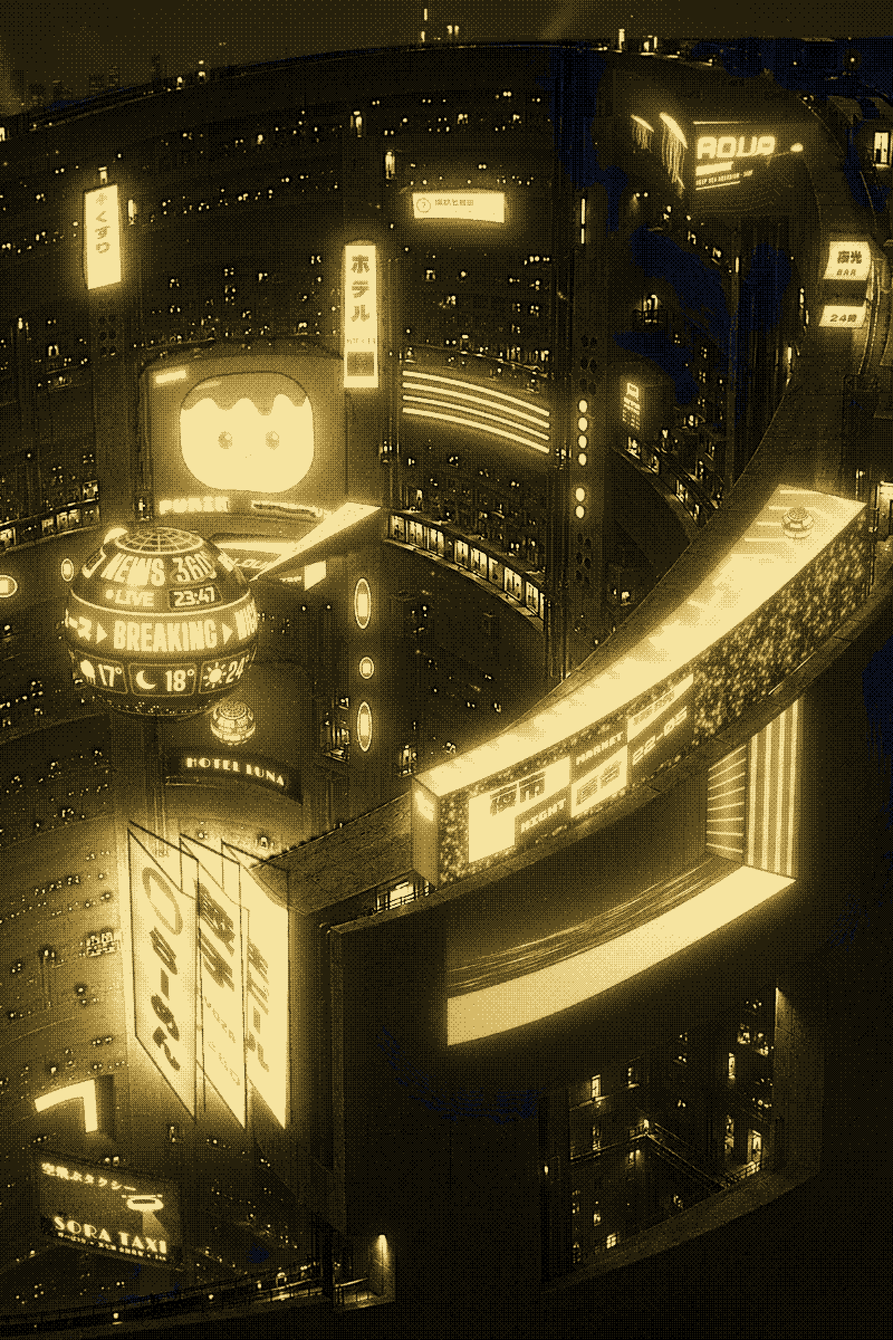
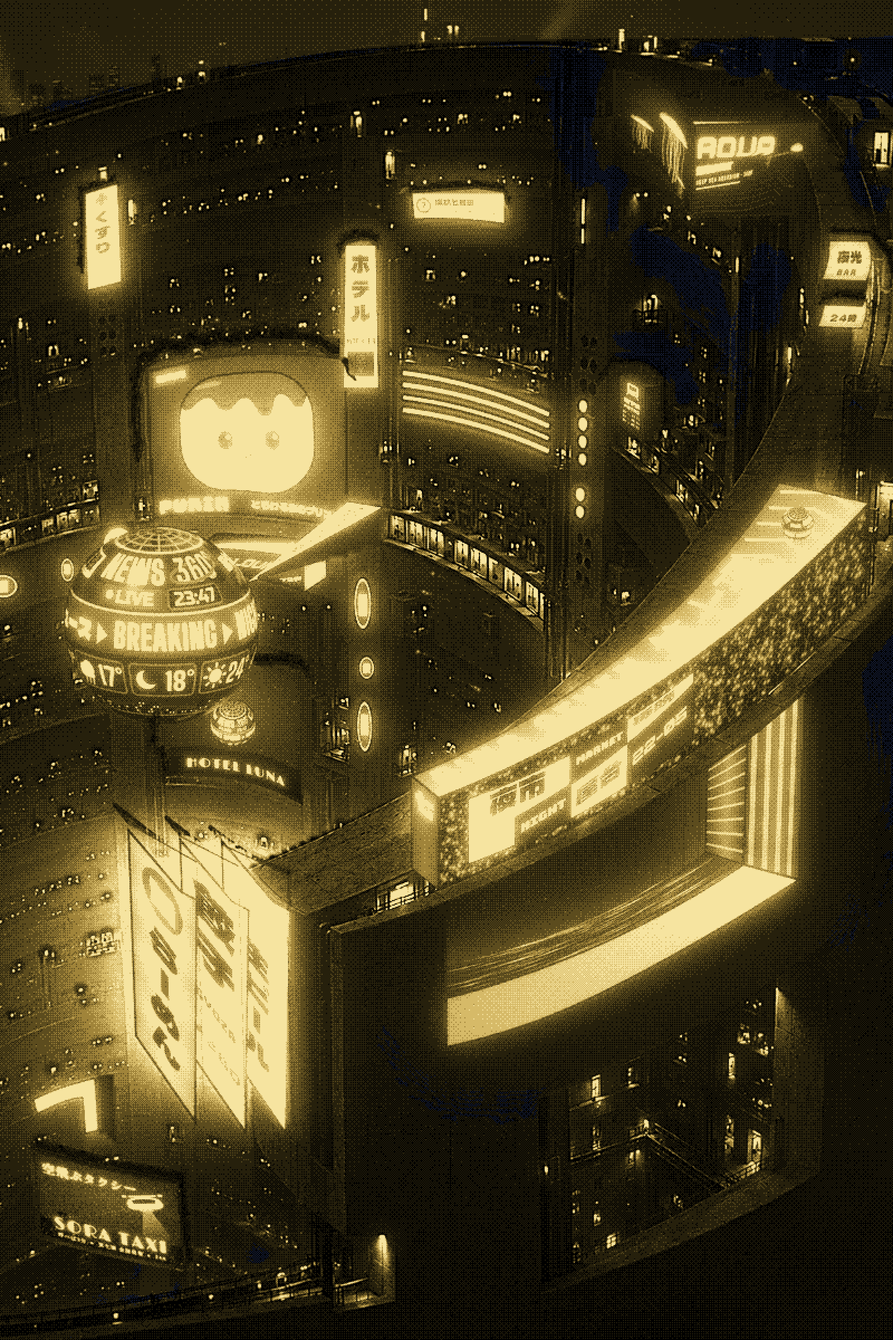
Building 2: real support structure behind the light panels
The uniform shifted band of the previous pass did not follow the
perspective and read as an outline, not as a body. Each wall screen is
now a thin LED cabinet on a steel sub-frame, held off the wall on
outrigger brackets with wall plates bolted to wall rails; side posts get
diagonal ties and screens over 5 m a lattice between the brackets. The
izakaya blades hang on a cantilever arm along the top edge with a tie
rod, the ones in front hiding the structure of the ones behind.

Members are sized in metres (standoff, section and bracket spacing scale
with the panel) and projected with the mounting normal at that point of
the ring at the local px-per-metre scale, so the depth direction turns
around the ring. Structure is only drawn past the edges that face the
wall footprint and on the wall side of the panel; the wall behind those
edges falls into the panel's shadow with a soft contact shadow beyond,
and the steel is lit by the local glow of the scene. Sign faces, lit
elements and the NEWS 360 ball stay in front of any structure. The
PURIN mask now includes its cream lettering so no truss grows across the
face. The SORA TAXI billboard gets the same frame.

All three variants, the preview and process sheet 08 are regenerated.

Claude-Session: https://claude.ai/code/session_01NVD3LLDDZSnfcYFD5YBpb3

diff --git a/pipeline/building_2/scripts/b2_post.py b/pipeline/building_2/scripts/b2_post.py
@@ -1,13 +1,17 @@
 #!/usr/bin/env python3
-"""Post pass on the finished building-2 frames (2400x3600): body for the flat light panels + the SORA TAXI billboard.
+"""Post pass on the finished building-2 frames (2400x3600): support structure for the flat light panels + the SORA
+TAXI billboard.
 
 The flat lightboxes and LED screens (くすり, 環状七号線, ホテル MIDORI, PURIN, HOTEL LUNA, the three izakaya blades, the
-METRO kiosk, the 夜光 BAR boxes) are given a real body: dark metal returns on the sides that face the camera (the top,
-and the side that faces away from the far point of the ring), a lit bezel line where the face meets the return, and a
-contact shadow on the wall around the mounting footprint. A new wall billboard in the HOTEL LUNA family (SORA TAXI,
-flying taxi) is added on the lower-left wall with the same LED material, metal frame, returns and contact shadow, its
-light spilled and bloomed onto the wall, then the lens falloff and the film treatment of the frame it sits in
-(halation, shoulder/toe, grade, scan sharpening, grain).
+METRO kiosk, the 夜光 BAR boxes) were drawn as decals and read as floating. Each wall screen becomes a thin LED cabinet
+on a steel sub-frame, held off the wall on outrigger brackets with wall plates that bolt to wall rails; side posts get
+diagonal ties and big screens a lattice between the brackets. The blades are thin sheets hung on cantilever arms with
+a tie rod. Members are sized in metres and projected with the mounting normal of that point of the ring (so the depth
+direction turns around the ring) at the local px-per-metre scale; the wall behind the panel's edge falls into its
+shadow, with a soft contact shadow beyond. A new wall billboard in the HOTEL LUNA family (SORA TAXI, flying taxi) is
+added on the lower-left wall with the same LED material, metal frame and structure, its light spilled and bloomed
+onto the wall, then the lens falloff and the film treatment of the frame it sits in (halation, shoulder/toe, grade,
+scan sharpening, grain).
 
 It works on the finished frames because the `.ai` assets of the pipeline are not in the repository: the panel outlines
 are segmented from the Portra frame (all variants share the same geometry), the cinematic and Portra frames are edited
@@ -63,30 +67,30 @@ def shift_vec(nx, nz, t):
     return t * nx, t * nz * SY
 
 # ----------------------------------------------------------------------------------------------- panel geometry
-# bbox, hue range (deg) or None, min sat, min val, parts, thickness px, frame dilation px, outline tolerance px
+# bbox, hue range (deg) or None, min sat, min val, parts, scale (px per metre), frame dilation px, outline tolerance px
 PANELS = {
-    'kusuri':    dict(bbox=(215, 480, 345, 800), hue=None, smin=0.0, vmin=0.45, n=1, t=10, grow=4, eps=5),
-    'ringline7': dict(bbox=(1085, 500, 1380, 630), hue=None, smin=0.0, vmin=0.45, n=1, t=10, grow=4, eps=5),
-    'midori':    dict(bbox=(915, 640, 1030, 1055), hue=None, smin=0.0, vmin=0.40, n=1, t=10, grow=4, eps=5),
-    'purin':     dict(bbox=(370, 900, 955, 1425), hue=(265, 335), smin=0.35, vmin=0.22, n=1, t=18, grow=4, eps=2.5,
-                      hull=False, smooth=7),
-    'luna':      dict(bbox=(425, 1790, 835, 2190), hue=(210, 258), smin=0.40, vmin=0.18, n=1, t=16, grow=4, eps=2.5,
+    'kusuri':    dict(bbox=(215, 480, 345, 800), hue=None, smin=0.0, vmin=0.45, n=1, scale=46, grow=4, eps=5),
+    'ringline7': dict(bbox=(1085, 500, 1380, 630), hue=None, smin=0.0, vmin=0.45, n=1, scale=46, grow=4, eps=5),
+    'midori':    dict(bbox=(915, 640, 1030, 1055), hue=None, smin=0.0, vmin=0.40, n=1, scale=46, grow=4, eps=5),
+    'purin':     dict(bbox=(370, 900, 955, 1405), hue=(265, 335), smin=0.35, vmin=0.22, n=1, scale=44, grow=4, eps=2.5,
+                      hull=False, smooth=7, bright=0.55, close=15),       # the cream lettering on its bottom edge joins the mask
+    'luna':      dict(bbox=(425, 1790, 835, 2190), hue=(210, 258), smin=0.40, vmin=0.18, n=1, scale=48, grow=4, eps=2.5,
                       hull=False, smooth=5, hidden_corner=(432, 1815)),
-    'kiosk':     dict(bbox=(1610, 980, 1780, 1200), hue=(210, 258), smin=0.35, vmin=0.18, n=1, t=9, grow=3, eps=5),
-    'bars':      dict(bbox=(2175, 600, 2400, 1000), hue=(265, 330), smin=0.22, vmin=0.30, n=2, t=9, grow=3, eps=5),
+    'kiosk':     dict(bbox=(1610, 980, 1780, 1200), hue=(210, 258), smin=0.35, vmin=0.18, n=1, scale=42, grow=3, eps=5),
+    'bars':      dict(bbox=(2175, 600, 2400, 1000), hue=(265, 330), smin=0.22, vmin=0.30, n=2, scale=42, grow=3, eps=5),
 }
 # the izakaya blades light the wall around them too strongly to be segmented by colour: their quads (TL, TR, BR, BL)
-# are given by hand, back to front. Thin two-sided sheets whose free edge faces the camera: top + right returns.
+# are given by hand, back to front. Thin two-sided sheets hung on a cantilever arm along the top edge with a tie rod.
 BLADES = {
-    'blade3': dict(quad=[(598, 2268), (770, 2348), (780, 3022), (608, 2942)], t=10, nx=-0.35),
-    'blade2': dict(quad=[(482, 2244), (640, 2325), (660, 3020), (502, 2939)], t=10, nx=-0.35),
-    'blade1': dict(quad=[(344, 2210), (528, 2314), (548, 2990), (350, 2962)], t=10, nx=-0.35),
+    'blade3': dict(quad=[(598, 2268), (770, 2348), (780, 3022), (608, 2942)], scale=46, nx=-0.35),
+    'blade2': dict(quad=[(482, 2244), (640, 2325), (660, 3020), (502, 2939)], scale=46, nx=-0.35),
+    'blade1': dict(quad=[(344, 2210), (528, 2314), (548, 2990), (350, 2962)], scale=46, nx=-0.35),
 }
 BALL = (432, 1653, 262)                          # the hovering NEWS 360 ball: in front of HOTEL LUNA
 
 # the new billboard: a 3:2 board on the lower-left (convex, near) wall, whose rows slope ~13 deg down to the right
 BOARD = dict(TL=(88, 3090), width=400, height=230, hdir=(0.975, 0.222), vdir=(0.09, 0.996), bow=5.0,
-             t=16, nx=-0.35, frame=5.0, exposure=1.3)
+             scale=50, nx=-0.35, frame=5.0, exposure=1.3)
 
 def segment(por):
     hsv = cv2.cvtColor((por * 255).astype(np.uint8), cv2.COLOR_RGB2HSV).astype(np.float32)
@@ -98,11 +102,12 @@ def segment(por):
         x0, y0, x1, y1 = p['bbox']
         m = (V >= p['vmin']) & (S >= p['smin'])
         if p['hue']: m &= (Hd >= p['hue'][0]) & (Hd <= p['hue'][1])
+        if p.get('bright'): m |= V >= p['bright']
         reg = np.zeros((H, W), bool); reg[y0:y1, x0:x1] = True
         m = (m & reg).astype(np.uint8)
         if name == 'luna': m[cv2.dilate(ball, disk(4)) > 0] = 0
         m = cv2.morphologyEx(m, cv2.MORPH_OPEN, np.ones((3, 3), np.uint8))
-        m = cv2.morphologyEx(m, cv2.MORPH_CLOSE, np.ones((5, 5), np.uint8))
+        kc = p.get('close', 5); m = cv2.morphologyEx(m, cv2.MORPH_CLOSE, np.ones((kc, kc), np.uint8))
         for j, part in enumerate(largest(m, p['n'])):
             part = fill_holes(part)
             if p.get('hidden_corner'):                       # complete the outline behind the ball
@@ -113,64 +118,163 @@ def segment(por):
             part = cv2.dilate(clean_outline(part, p['eps'], p.get('hull', True), p.get('smooth', 0)), disk(p['grow']))
             ys, xs = np.nonzero(part); cx = xs.mean()
             nx, nz = wall_normal(cx, p.get('nx'))
-            out.append(dict(name=f'{name}{j if p["n"] > 1 else ""}', mask=part, t=p['t'], d=shift_vec(nx, nz, p['t'])))
+            out.append(dict(name=f'{name}{j if p["n"] > 1 else ""}', mask=part, scale=p['scale'], d=shift_vec(nx, nz, 1.0), kind='wall'))
+    wn = shift_vec(*wall_normal(0, 0.5), 1.0)                       # the wall the blades hang from
+    blades = []
     for name, p in BLADES.items():
         nx, nz = wall_normal(0, p['nx'])
-        out.append(dict(name=name, mask=poly_mask(p['quad']), t=p['t'], d=shift_vec(nx, nz, p['t'])))
+        blades.append(dict(name=name, mask=poly_mask(p['quad']), scale=p['scale'], d=shift_vec(nx, nz, 1.0), kind='blade',
+                           poly=np.array(p['quad'], np.float64), wall_n=wn))
+    for i, b in enumerate(blades):                                   # drawn back to front: the ones in front hide the structure
+        front = [c['mask'] for c in blades[i + 1:]]
+        if front: b['occluded_by'] = np.maximum.reduce(front)
+    out += blades
     bright = (((V > 0.30) & (S > 0.30)) | (V > 0.72)).astype(np.uint8)
     bright = cv2.morphologyEx(bright, cv2.MORPH_CLOSE, np.ones((5, 5), np.uint8))
     return out, ball, bright
 
 # ----------------------------------------------------------------------------------------------- the body of a panel
-def body(F, d):
-    """returns (R: pixels of the returns, s: 0 at the face edge -> 1 at the wall, top: 1 where the return is the top face)
-    for a face mask F standing off the wall by image displacement d"""
+# A wall screen is a thin LED cabinet on a steel sub-frame, held off the wall on outrigger brackets that bolt to wall
+# rails; the side posts get diagonal ties. A blade is a thin sheet hung on cantilever arms with a tie rod. Dimensions in
+# metres, projected with the mounting normal of that point of the ring (image direction nimg, length 1 for 1 m of depth
+# before the camera foreshortening already in nimg) and the local scale s (px per metre).
+CAB, PLATE = 0.12, 0.24                       # cabinet depth, wall plate; the rest scales with the panel size (add_body)
+
+def sweep(F, d):
+    """pixels swept by face F moved to the wall by image displacement d: the wall the panel's edge stands in front of"""
     dx, dy = d; n = max(2, int(np.ceil(np.hypot(dx, dy) * 1.5)))
     ys, xs = np.nonzero(F); pad = int(abs(dx) + abs(dy) + 4)
     x0, y0 = max(0, xs.min() - pad), max(0, ys.min() - pad); x1, y1 = min(W, xs.max() + pad + 1), min(H, ys.max() + pad + 1)
-    f = F[y0:y1, x0:x1]; h, w = f.shape
-    R = np.zeros((h, w), np.uint8); s = np.zeros((h, w), np.float32); top = np.zeros((h, w), np.uint8)
-    U = f.copy()
+    f = F[y0:y1, x0:x1]; h, w = f.shape; U = f.copy()
     for i in range(1, n + 1):
         k = i / n
-        sh = cv2.warpAffine(f, np.float32([[1, 0, -dx * k], [0, 1, -dy * k]]), (w, h), flags=cv2.INTER_NEAREST)
-        new = (sh > 0) & (U == 0)
-        if new.any():
-            s[new] = k; R[new] = 1
-            vert = cv2.warpAffine(f, np.float32([[1, 0, 0], [0, 1, -dy * k]]), (w, h), flags=cv2.INTER_NEAREST)
-            horz = cv2.warpAffine(f, np.float32([[1, 0, -dx * k], [0, 1, 0]]), (w, h), flags=cv2.INTER_NEAREST)
-            top[new & (vert > 0) & (horz == 0)] = 1
-        U |= sh
-    Rf = np.zeros((H, W), np.uint8); Rf[y0:y1, x0:x1] = R
-    sf = np.zeros((H, W), np.float32); sf[y0:y1, x0:x1] = s
-    tf = np.zeros((H, W), np.uint8); tf[y0:y1, x0:x1] = top
-    return Rf, sf, tf
+        U |= cv2.warpAffine(f, np.float32([[1, 0, -dx * k], [0, 1, -dy * k]]), (w, h), flags=cv2.INTER_NEAREST)
+    out = np.zeros((H, W), np.uint8); out[y0:y1, x0:x1] = U & (1 - f); return out
 
-def add_body(img, F, d, t, look, protect, touched, tint=None):
-    """draw the returns + bezel of face F into img (sRGB float), then the contact shadow around the body on the wall"""
-    R, s, top = body(F, d)
-    face_col = tint if tint is not None else np.percentile(img[F > 0], 60, axis=0)
-    rr = R > 0
-    wall = img[rr]
-    kc = 1.25 if look == 'cinematic' else 1.0
-    top_col = np.array([0.110, 0.115, 0.130], np.float32) * kc        # top face: dark metal lit by the sky and the signs above
-    side_col = np.array([0.055, 0.058, 0.066], np.float32) * kc       # side faces: in their own shadow
+def face_polygon(F, eps=4.0):
+    cnts, _ = cv2.findContours(F, cv2.RETR_EXTERNAL, cv2.CHAIN_APPROX_NONE)
+    c = cv2.approxPolyDP(max(cnts, key=cv2.contourArea), eps, True)[:, 0, :].astype(np.float64)
+    if 0.5 * np.sum(c[:, 0] * np.roll(c[:, 1], -1) - np.roll(c[:, 0], -1) * c[:, 1]) < 0: c = c[::-1]   # clockwise in image coords
+    return c
+
+class Layer:
+    """steel members drawn back to front into a crop of the frame: dark steel lit by the local glow of the scene
+    (a blurred copy of the frame around the panel), with a lit upper edge"""
+    def __init__(self, img, touched, box, amb, lift, keep=None):
+        self.img, self.touched, self.box, self.amb, self.lift, self.keep = img, touched, box, amb, lift, keep
+    def _blend(self, m, col):
+        x0, y0, x1, y1 = self.box
+        a = m.astype(np.float32)[..., None] / 255
+        if self.keep is not None: a = a * (1 - self.keep[..., None])             # things in front stay in front
+        reg = self.img[y0:y1, x0:x1]; reg[:] = reg * (1 - a) + col * a
+        t = self.touched[y0:y1, x0:x1]; t[:] = np.maximum(t, a[..., 0])
+    def _q(self, p): return (int(round(p[0] - self.box[0])), int(round(p[1] - self.box[1])))
+    def member(self, p0, p1, width, k, base, hi=True, tint=None, edge=True):
+        h, w = self.amb.shape[:2]
+        if edge:                                                          # a dark edge separates the member from the wall
+            m = np.zeros((h, w), np.uint8); cv2.line(m, self._q(p0), self._q(p1), 255, max(2, int(round(width)) + 2), cv2.LINE_AA)
+            self._blend(m, self.amb * k * 0.3 + base * 0.5 + self.lift)
+        m = np.zeros((h, w), np.uint8); cv2.line(m, self._q(p0), self._q(p1), 255, max(1, int(round(width))), cv2.LINE_AA)
+        self._blend(m, self.amb * k + base + self.lift + (0 if tint is None else tint))
+        if hi and width >= 2.5:
+            d = np.asarray(p1, float) - np.asarray(p0, float); ln = np.hypot(*d) + 1e-6
+            perp = np.array([-d[1], d[0]]) / ln
+            if perp[1] > 0: perp = -perp                              # the edge that faces up catches the light
+            off = perp * (width / 2 - 0.7)
+            m = np.zeros((h, w), np.uint8); cv2.line(m, self._q(np.asarray(p0) + off), self._q(np.asarray(p1) + off), 255, 1, cv2.LINE_AA)
+            self._blend(m, self.amb * (k * 1.9) + base * 2.5 + self.lift)
+    def strip(self, pts, k, base, tint):
+        h, w = self.amb.shape[:2]
+        m = np.zeros((h, w), np.uint8)
+        cv2.fillPoly(m, [np.array([self._q(p) for p in pts], np.int32)], 255, cv2.LINE_AA)
+        self._blend(m, self.amb * k + base + self.lift + tint * 0.04)
+
+def add_body(img, orig, F, nimg, s, kind, look, protect, touched, tint=None, poly=None, wall_n=None, occluder=None):
+    """draw the support structure of face F into img (sRGB float). nimg: image direction of the mounting normal
+    (toward the viewer) per metre of depth; s: px per metre; kind 'wall' (cabinet on brackets) or 'blade' (sheet on arms)"""
     lift = np.array([0.022, 0.031, 0.028], np.float32) if look == 'cinematic' else 0.0
-    sv = s[rr][:, None]; tp = top[rr][:, None].astype(np.float32)
-    # painted metal: a little of the wall it stands in front of, darker toward the wall, a faint leak of the face
-    base = top_col * tp + side_col * (1 - tp)
-    col = wall * (0.30 * tp + 0.25 * (1 - tp)) + (base * (1 - 0.25 * sv) + lift) + face_col * (0.05 * (1 - sv))
-    bez = np.clip(1 - (sv * np.hypot(*d) - 0.6) / 1.0, 0, 1) * 0.45                 # ~1 px metal edge on the face side
-    bezel_col = np.array([0.24, 0.25, 0.28], np.float32) * 0.5 + face_col * 0.2 + lift
-    col = col * (1 - bez) + bezel_col * bez
-    img[rr] = col
-    touched[rr] = np.maximum(touched[rr], 1.0)
-    # contact shadow: ambient occlusion on the wall around the footprint, not on other lights
-    Bd = (F | R)
-    D = cv2.distanceTransform((1 - Bd).astype(np.uint8), cv2.DIST_L2, 5)
-    ao = 0.25 * np.exp(-(D / (0.8 * t)) ** 1.3) * (D > 0) * (protect == 0)
+    face_col = tint if tint is not None else np.percentile(img[F > 0], 60, axis=0)
+    poly = face_polygon(F) if poly is None else np.asarray(poly, np.float64)
+    nimg = np.asarray(nimg, np.float64)
+    cab = CAB if kind == 'wall' else 0.08
+    # the structure scales with the panel: a 2 m lightbox sits on a light frame, a 14 m screen on a truss
+    size_m = float(max(poly.max(0) - poly.min(0))) / s
+    standoff = float(np.clip(0.07 * size_m, 0.45, 1.3))
+    mem = float(np.clip(0.05 + 0.012 * size_m, 0.08, 0.20))
+    RAIL = POST = mem; BRACKET = 0.8 * mem; TIE = 0.6 * mem; SPACING = float(np.clip(0.12 * size_m, 1.2, 2.5))
+    Dc = nimg * cab * s                                                        # face -> back of the cabinet
+    wn = nimg if wall_n is None else np.asarray(wall_n, np.float64)
+    Dw = wn * (cab + standoff) * s                                             # face -> wall
+    # the wall behind the panel's edge is in its shadow; a soft contact shadow beyond the footprint
+    G = sweep(F, Dw if kind == 'wall' else Dc)
+    front = (protect > 0) if occluder is None else occluder
+    shade = (G > 0) & ~front
+    img[shade] *= 0.4
+    D = cv2.distanceTransform((1 - (F | G)).astype(np.uint8), cv2.DIST_L2, 5)
+    ao = 0.22 * np.exp(-(D / (0.45 * s)) ** 1.2) * (D > 0) * (protect == 0)
     img *= (1 - ao)[..., None]
-    return Bd
+    # the local glow of the scene lights the dark steel
+    ys, xs = np.nonzero(F | G); pad = int(1.0 * s) + 8
+    box = (max(0, xs.min() - pad), max(0, ys.min() - pad), min(W, xs.max() + pad + 1), min(H, ys.max() + pad + 1))
+    x0, y0, x1, y1 = box
+    amb = np.clip(cv2.GaussianBlur(orig[y0:y1, x0:x1], (0, 0), 10), 0, 0.35)
+    L = Layer(img, touched, box, amb, lift, keep=None if occluder is None else occluder[y0:y1, x0:x1].astype(np.float32))
+    # exposed edges face the wall footprint: past them we look onto the structure behind the panel
+    n = len(poly); edges = []; centre = poly.mean(0)
+    for i in range(n):
+        p, q = poly[i], poly[(i + 1) % n]; e = q - p; ln = np.hypot(*e)
+        if ln < 1: continue
+        out = np.array([e[1], -e[0]]) / ln
+        # ... and lie on the wall side of the panel (a notch in the outline must not grow a truss across the face)
+        ex = float(out @ (-nimg)) > 0.12 and float(((p + q) / 2 - centre) @ (-nimg)) > 0
+        edges.append((p, q, ex))
+    if kind == 'wall':
+        for p, q, ex in edges:                                                 # wall rails (back)
+            if ex: L.member(p - Dw, q - Dw, RAIL * s, 0.42, 0.02)
+        chains, cur = [], []                                                   # outrigger brackets along the exposed chains
+        for p, q, ex in edges:
+            if ex: cur.append((p, q))
+            elif cur: chains.append(cur); cur = []
+        if cur:
+            if chains and edges[0][2]: chains[0] = cur + chains[0]
+            else: chains.append(cur)
+        for ch in chains:
+            pts = np.array([ch[0][0]] + [q for _, q in ch])
+            seg = np.linalg.norm(np.diff(pts, axis=0), axis=1); cum = np.r_[0, np.cumsum(seg)]; total = cum[-1]
+            k = max(1, int(round(total / (SPACING * s))))
+            anchors = []
+            for j in range(k + 1):
+                t = total * j / k; i = min(int(np.searchsorted(cum, t, side='right') - 1), len(seg) - 1)
+                a = pts[i] + (pts[i + 1] - pts[i]) * ((t - cum[i]) / max(seg[i], 1e-6))
+                steep = abs(pts[i + 1][1] - pts[i][1]) > abs(pts[i + 1][0] - pts[i][0])
+                perp = np.array([-wn[1], wn[0]]); perp /= np.linalg.norm(perp) + 1e-6
+                L.member(a - Dw - perp * PLATE * s / 2, a - Dw + perp * PLATE * s / 2, BRACKET * s * 0.8, 0.40, 0.02, hi=False)
+                L.member(a - Dc, a - Dw, BRACKET * s, 0.40, 0.02, hi=not steep)
+                anchors.append((a, steep))
+            if size_m > 5:                                                     # big screens: a lattice between the brackets
+                for (a, sa), (b, sb) in zip(anchors[:-1], anchors[1:]):
+                    if not (sa or sb): L.member(a - Dw, b - Dc, TIE * s, 0.36, 0.015, hi=False)
+        for p, q, ex in edges:                                                 # side posts get diagonal ties to the wall
+            if not ex: continue
+            e = q - p; ln = np.hypot(*e)
+            if abs(e[1]) > 0.7 * ln and ln > 1.2 * s:
+                top, bot = (p, q) if p[1] < q[1] else (q, p)
+                L.member(top - Dw, top * 0.5 + bot * 0.5 - Dc, TIE * s, 0.36, 0.015, hi=False)
+                L.member(bot - Dw, top * 0.5 + bot * 0.5 - Dc, TIE * s, 0.36, 0.015, hi=False)
+        for p, q, ex in edges:                                                 # the sub-frame at the back of the cabinet
+            if ex: L.member(p - Dc, q - Dc, POST * s, 0.45, 0.025, hi=abs(q[1] - p[1]) < 0.7 * np.hypot(*(q - p)))
+    else:
+        TL, TR, BR, BL = poly[:4]
+        arm = (cab + standoff) * s
+        wu = wn / (np.linalg.norm(wn) + 1e-6)
+        L.member(TL - Dc, TL - Dc - wu * arm, BRACKET * s, 0.40, 0.02)        # cantilever arm into the wall at the top
+        L.member(TL - Dc - wu * arm, TL + (TR - TL) * 0.45 - Dc, TIE * s, 0.36, 0.015, hi=False)   # tie rod
+        L.member(TL - Dc, TR - Dc, POST * s * 0.8, 0.45, 0.025)              # the sheet's top rail
+    for p, q, ex in edges:                                                     # the cabinet return and its lit edge
+        if not ex: continue
+        L.strip([p, q, q - Dc, p - Dc], 0.33, 0.02, face_col)
+        L.member(p, q, 1.2, 0.8, 0.05, hi=False, tint=face_col * 0.12, edge=False)
+    return F | G
 
 # ----------------------------------------------------------------------------------------------- the new billboard
 def film_pixels(lin, look):
@@ -251,9 +355,9 @@ def render_board(tex_path, look):
     L = np.zeros((H, W, 3), np.float32); L[ys, xs] = lin
     return F, L, E, rgba[:, 3], (xs, ys)
 
-def add_board(img, look, tex_path, protect, touched):
+def add_board(img, orig, look, tex_path, protect, touched, occluder=None):
     F, L, E, alpha, (xs, ys) = render_board(tex_path, look)
-    nx, nz = wall_normal(0, BOARD['nx']); d = shift_vec(nx, nz, BOARD['t'])
+    nx, nz = wall_normal(0, BOARD['nx']); d = shift_vec(nx, nz, 1.0)
     # light transport approximation (composite.py scaled to this frame): spill, bloom, diffuse glow on the wall
     k = W / 2910.0
     bg = s2l(img)
@@ -281,7 +385,7 @@ def add_board(img, look, tex_path, protect, touched):
     touched[ys, xs] = np.maximum(touched[ys, xs], a[:, 0])
     sharpen = np.zeros((H, W), np.float32); sharpen[ys, xs] = a[:, 0]
     tint = np.percentile(face, 60, axis=0)
-    add_body(img, F, d, BOARD['t'], look, protect, touched, tint=tint)
+    add_body(img, orig, F, d, BOARD['scale'], 'wall', look, protect, touched, tint=tint, occluder=occluder)
     return F, sharpen
 
 # ----------------------------------------------------------------------------------------------- finishing
@@ -310,10 +414,18 @@ def process(img, look, panels, ball, bright, tex_path, seed):
     protect = bright.copy()
     touched = np.zeros((H, W), np.float32)
     ball_m = cv2.dilate(ball, disk(2)) > 0
+    # every sign face and every strongly lit element stays in front of the structure drawn behind other panels
+    faces = np.maximum.reduce([p['mask'] for p in panels])
+    in_front = ((bright > 0) & (img.max(-1) > 0.55)) | (faces > 0) | ball_m
     for p in panels:
-        add_body(img, p['mask'], p['d'], p['t'], look, protect, touched)
+        occ = p.get('occluded_by')
+        if occ is not None: keep_img, keep_t = img.copy(), touched.copy()
+        add_body(img, orig, p['mask'], p['d'], p['scale'], p['kind'], look, protect, touched, poly=p.get('poly'), wall_n=p.get('wall_n'),
+                 occluder=in_front & (p['mask'] == 0))
+        if occ is not None:                                        # a blade in front hides the structure of the one behind
+            m = occ > 0; img[m] = keep_img[m]; touched[m] = keep_t[m]
     img[ball_m] = orig[ball_m]; touched[ball_m] = 0            # the ball hovers in front of HOTEL LUNA
-    Fb, sharpen = add_board(img, look, tex_path, protect, touched)
+    Fb, sharpen = add_board(img, orig, look, tex_path, protect, touched, occluder=in_front)
     img = finish(img, touched, sharpen, look, seed)
     return img, touched, Fb
 
@@ -349,7 +461,7 @@ def main():
     cin, por, dit = load(a.cinematic), load(a.portra), load(a.dither)
     assert cin.shape[:2] == (H, W) and por.shape[:2] == (H, W) and dit.shape[:2] == (H, W)
     panels, ball, bright = segment(por)
-    print('panels:', ', '.join('%s t=%d d=(%.1f,%.1f)' % (p['name'], p['t'], *p['d']) for p in panels))
+    print('panels:', ', '.join('%s s=%d n=(%.2f,%.2f)' % (p['name'], p['scale'], *p['d']) for p in panels))
     por_new, touched, Fb = process(por, 'portra', panels, ball, bright, a.tex, a.seed)
     cin_new, _, _ = process(cin, 'cinematic', panels, ball, bright, a.tex, a.seed)
     dit_new = dither_variant(por_new, dit, touched)

diff --git a/pipeline/README.md b/pipeline/README.md
@@ -78,6 +78,6 @@ below) that gives the flat light panels a body and adds the SORA TAXI billboard 
 | 8 | `b2_composite.py`, `b2_atmos.py` | Spill, bloom and diffuse poster glow, plus depth haze into the well. Also: fine detail, a distant skyline above the rim, craft circling on the ring's ellipses, searchlights, and textured haze lit by the signs. |
 | 6b | `b2_sphere.py`, `tex/news360.html`, `tex/news360_big.html` | Spherical LED news screens. The two green/pink balls are gradient meshes that exist only in the PDF layer of the .ai (shading type 7), so their circles come from the PDF clip paths. Each ball maps an equirectangular NEWS 360 texture onto a sphere seen by the tilted camera: mip-filtered anisotropic lookup, an LED grid sized to the same physical pitch as the flat screens, viewing-angle falloff, a glossy cover with Fresnel reflection and a glint. Only the billboard ball gets a mounting collar. The big ball's axis is tipped back 25 deg and its ticker sits at +10.5 deg so it follows the drawn band; it lights the wall behind it as a two-sided emitter. The three balls show different parts of the channel. |
 | 9 | `b2_lens.py`, then shared `film.py` / `dither.py` | 5 deg downward re-tilt through a 20 mm-class pinhole, 2:3 frame, barrel distortion, lateral CA, vignette and glare. Then the Portra 400 / cinematic film stage. |
-| 10 | `b2_post.py`, `tex/sora_taxi.html` | Post pass on the finished 2400x3600 frames. (a) Body for the flat light panels (くすり, 環状七号線, ホテル MIDORI, PURIN, HOTEL LUNA, the three izakaya blades, the METRO kiosk, the 夜光 BAR boxes), which were drawn as decals and read as floating: dark painted-metal returns on the faces that look toward the camera (the top, and the side turned away from the far point of the ring, from the wall normal at that point of the ring and the camera pitch), a thin lit bezel where the face meets the return, and a contact shadow on the wall around the mounting footprint; the hovering NEWS 360 ball stays in front of HOTEL LUNA. (b) The SORA TAXI billboard: a 3:2 board on the lower-left wall following its rows, same LED pixel grid, metal frame and returns as the other screens, its light spilled and bloomed onto the wall, the lens vignette of that corner, then the film chain (halation, shoulder/toe, grade, scan sharpening, grain) of the frame it sits in. Panel outlines are segmented from the Portra frame (every variant shares the geometry; the blades are given as quads because they light the wall too strongly to segment), the cinematic and Portra frames are edited with their own looks, and the dither variant is re-quantised from the edited Portra frame inside the edited area. It runs on the finished frames because the `.ai` assets of stages 1-9 are not in the repository. Process image: `process_b2/08_panel_body_and_sora_taxi.jpg`. |
+| 10 | `b2_post.py`, `tex/sora_taxi.html` | Post pass on the finished 2400x3600 frames. (a) Support structure for the flat light panels (くすり, 環状七号線, ホテル MIDORI, PURIN, HOTEL LUNA, the three izakaya blades, the METRO kiosk, the 夜光 BAR boxes), which were drawn as decals and read as floating. Each wall screen becomes a thin LED cabinet (0.12 m, dark painted return with a lit bezel) on a steel sub-frame, held off the wall on outrigger brackets with wall plates, bolted to wall rails; side posts get diagonal ties, and screens over 5 m get a lattice between the brackets. The standoff (0.45-1.3 m), member sections (0.08-0.2 m) and bracket spacing scale with the panel size. Everything is projected with the mounting normal at that point of the ring (from the ring geometry and the camera pitch, so the depth direction turns around the ring: toward the top of the frame at the far point, up-right on the left wall, up-left on the right) at the local scale in px per metre; the structure is only drawn past the edges that face the wall footprint, the wall behind those edges falls into the panel's shadow with a soft contact shadow beyond, and the members are dark steel lit by the local glow of the scene. The blades are thin sheets hung on cantilever arms with a tie rod, the ones in front hiding the structure of the ones behind; the hovering NEWS 360 ball stays in front of HOTEL LUNA. (b) The SORA TAXI billboard: a 3:2 board on the lower-left wall following its rows, same LED pixel grid, metal frame and structure as the other screens, its light spilled and bloomed onto the wall, the lens vignette of that corner, then the film chain (halation, shoulder/toe, grade, scan sharpening, grain) of the frame it sits in. Panel outlines are segmented from the Portra frame (every variant shares the geometry; the blades are given as quads because they light the wall too strongly to segment), the cinematic and Portra frames are edited with their own looks, and the dither variant is re-quantised from the edited Portra frame inside the edited area. It runs on the finished frames because the `.ai` assets of stages 1-9 are not in the repository. Process image: `process_b2/08_panel_body_and_sora_taxi.jpg`. |
 
 Run: `scripts/run_b2.sh` (see the header for the expected layout).
